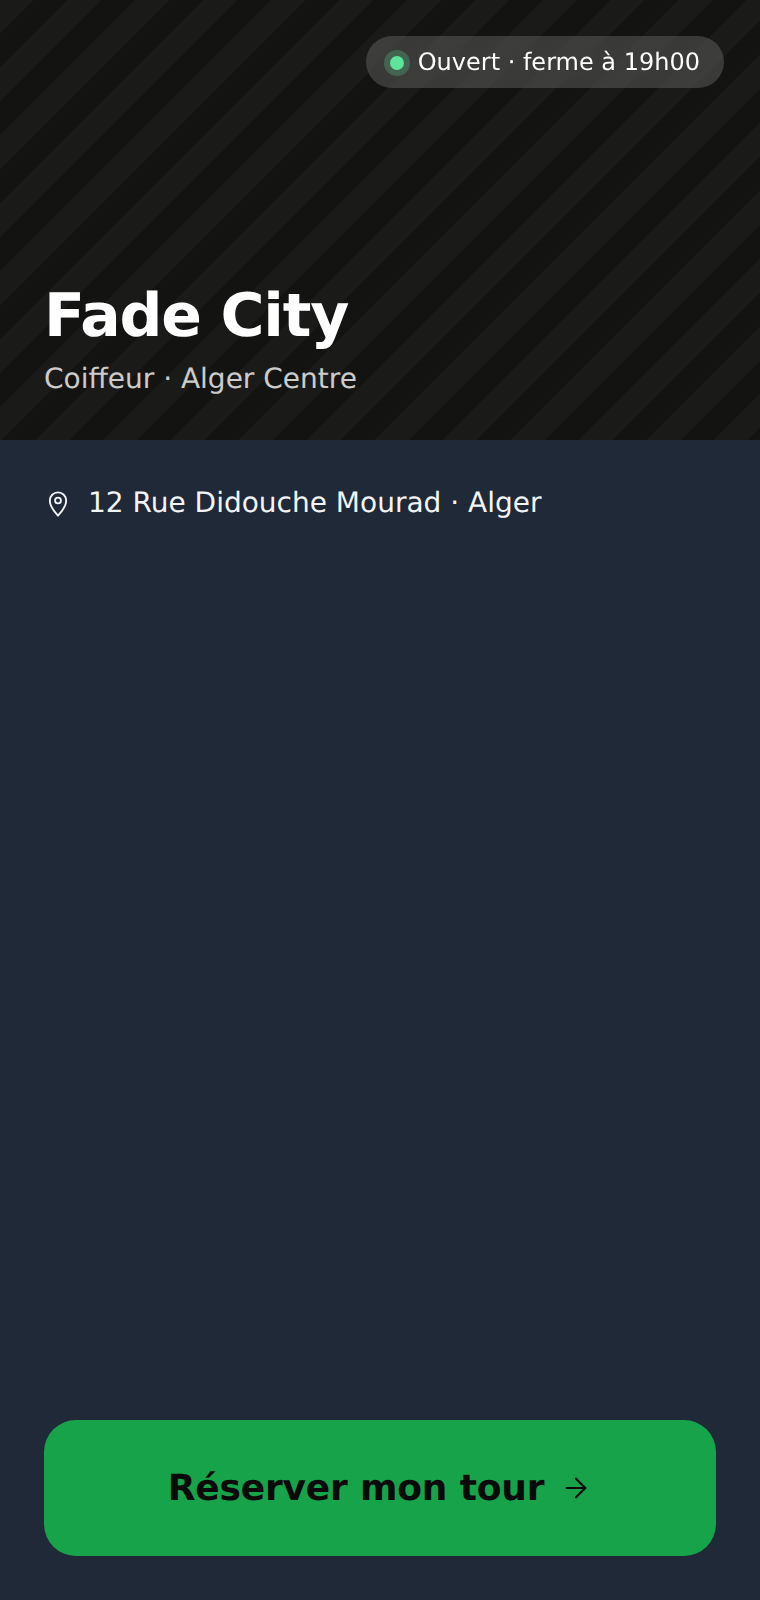
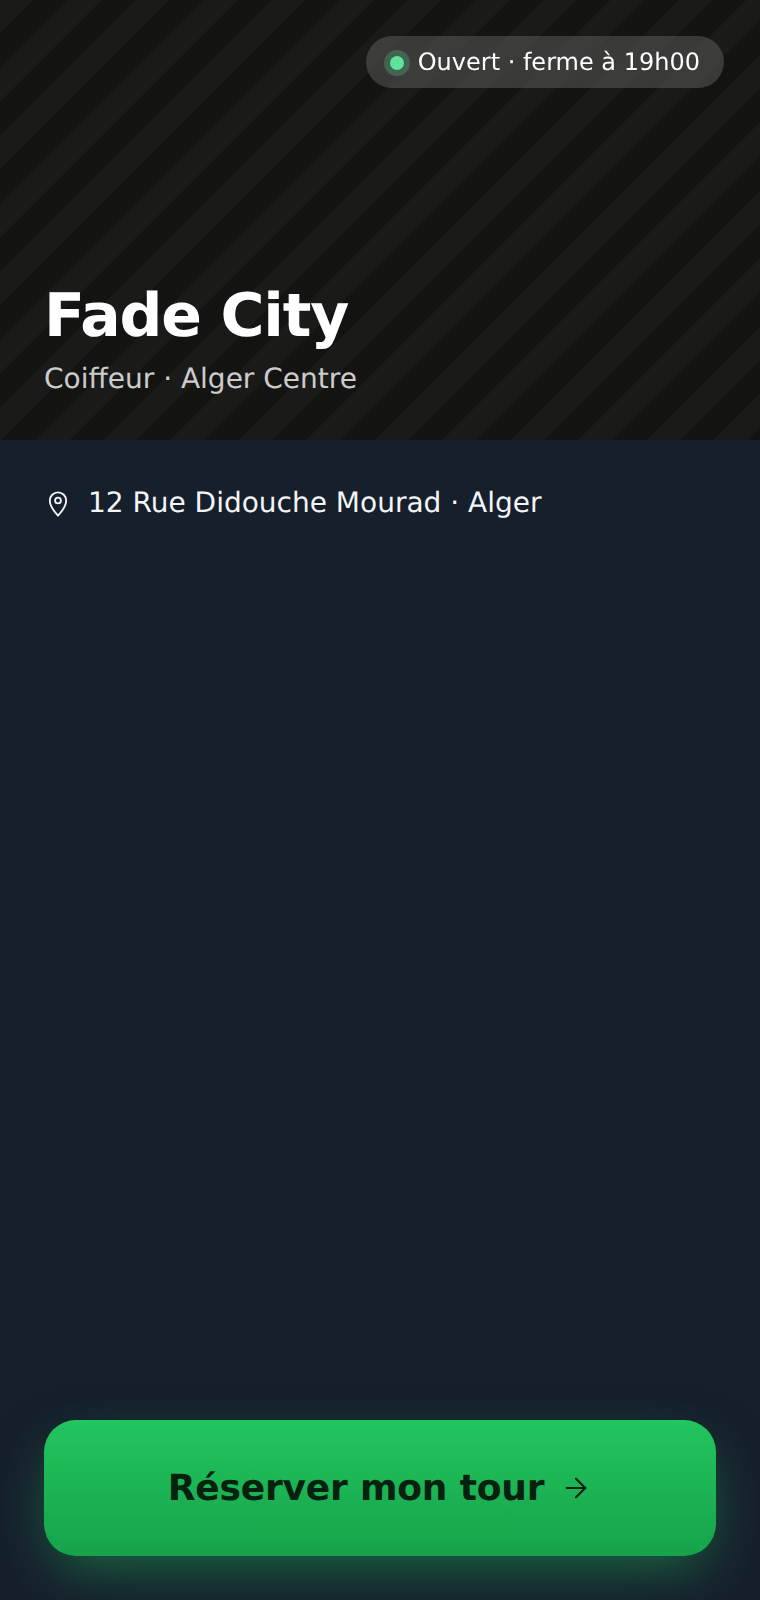
Visual refresh: deeper palette, green gradient + glow, elevation shadows
Applied at the token level so the app AND the site update together:
- Deeper page background (#0A0E17) with a soft top gradient glow.
- Brighter green + a gradient & glow on primary buttons (shared Button accent
  variant, and the Fast-mode primary) so the main action pops.
- Elevation shadows on cards, queue rows, and bottom sheets; sheets get a
  blurred backdrop. Subtle row hover-lift.
- Added shadow/glow design tokens (shadowSm/Md/Lg, glow, accentBright).
- Refreshed all README screenshots (app + site) with the new look.

Verified: full-app console clean.

https://claude.ai/code/session_01KXeZ2jfMa8Hu5hkugmRzRp

Changed region(s): [[0.0605, 0.875, 0.9382, 0.9375], [0.0908, 0.9688, 0.9079, 1.0]]

diff --git a/src/barber-fast.jsx b/src/barber-fast.jsx
@@ -154,7 +154,7 @@ function BarberFast({ lang = 'fr', setLang, density = 'busy', barberId = 'sofian
             <div key={current ? 'chair-' + current.client.id : 'chair-empty'} className="fast-chair"
                  style={{ animation: 'fast-chair-in 280ms cubic-bezier(0.2,0.8,0.2,1)' }}>
             {current ? (
-              <div style={{ background: TOKENS.surfaceAlt, borderRadius: 20, padding: 18, marginBottom: 16 }}>
+              <div style={{ background: TOKENS.surfaceAlt, borderRadius: 20, padding: 18, marginBottom: 16, boxShadow: TOKENS.shadowSm }}>
                 <div style={{ display: 'flex', alignItems: 'center', justifyContent: 'space-between', marginBottom: 4 }}>
                   <span style={{ fontSize: 12, fontWeight: 700, letterSpacing: '0.06em', textTransform: 'uppercase', color: TOKENS.accent }}>{L.inChair}</span>
                   <span style={{ display: 'inline-flex', alignItems: 'center', gap: 6, fontSize: 14, fontWeight: 600,
@@ -254,6 +254,8 @@ function BarberFast({ lang = 'fr', setLang, density = 'busy', barberId = 'sofian
         @keyframes fast-row-in { from { opacity: 0; transform: translateY(8px); } to { opacity: 1; transform: none; } }
         .fast-shell button { transition: transform 90ms ease; -webkit-tap-highlight-color: transparent; }
         .fast-shell button:active { transform: scale(0.965); }
+        .fast-shell .fast-row { transition: transform 130ms ease, box-shadow 130ms ease; }
+        .fast-shell .fast-row:hover { transform: translateY(-1px); box-shadow: 0 14px 28px -12px rgba(0,0,0,0.6); }
         @media (prefers-reduced-motion: reduce) {
           .fast-shell button:active { transform: none; }
           .fast-shell .fast-chair, .fast-shell .fast-row { animation: none !important; }
@@ -264,10 +266,14 @@ function BarberFast({ lang = 'fr', setLang, density = 'busy', barberId = 'sofian
 
   // styled-button helpers (kept inside for token access)
   function bigBtn(bg, fg, dashed, outline) {
+    const isAccent = bg === TOKENS.accent && !outline;
     return {
       width: '100%', minHeight: 64, borderRadius: 16, cursor: 'pointer', fontFamily: 'inherit',
-      background: outline ? 'transparent' : bg, color: fg,
-      border: outline ? `2px dashed ${TOKENS.border}` : (dashed ? `2px dashed ${TOKENS.accentDeep}` : 'none'),
+      background: outline ? 'transparent'
+        : (isAccent ? `linear-gradient(180deg, ${TOKENS.accentBright}, ${TOKENS.accent})` : bg),
+      color: fg,
+      border: outline ? `2px dashed ${TOKENS.border}` : 'none',
+      boxShadow: isAccent ? TOKENS.glow : 'none',
       display: 'inline-flex', alignItems: 'center', justifyContent: 'center', gap: 10,
       fontSize: 18, fontWeight: 800, letterSpacing: '-0.01em', marginTop: 16, padding: '0 18px',
     };
@@ -286,7 +292,7 @@ function BarberFast({ lang = 'fr', setLang, density = 'busy', barberId = 'sofian
 function FastRow({ c, i, lang, L, fmt, onStart, onNoShow, startSide }) {
   return (
     <div className="fast-row" style={{ background: TOKENS.surface, borderRadius: 16, padding: '12px 12px 12px 14px',
-                  display: 'flex', alignItems: 'center', gap: 12, minHeight: 72,
+                  display: 'flex', alignItems: 'center', gap: 12, minHeight: 72, boxShadow: TOKENS.shadowSm,
                   animation: 'fast-row-in 260ms ease both', animationDelay: `${Math.min(i, 6) * 35}ms` }}>
       <div style={{ width: 34, height: 34, borderRadius: '50%', flexShrink: 0,
                     background: TOKENS.surfaceAlt, color: TOKENS.muted, fontWeight: 700,
@@ -453,12 +459,14 @@ function FastToast({ msg }) {
 
 // shared sheet chrome
 function overlay() {
-  return { position: 'absolute', inset: 0, zIndex: 150, background: 'rgba(0,0,0,0.45)',
+  return { position: 'absolute', inset: 0, zIndex: 150, background: 'rgba(0,0,0,0.5)',
+           backdropFilter: 'blur(3px)', WebkitBackdropFilter: 'blur(3px)',
            display: 'flex', flexDirection: 'column', justifyContent: 'flex-end', animation: 'fast-fade 160ms ease-out' };
 }
 function sheet(dir) {
-  return { background: TOKENS.paper, borderRadius: '22px 22px 0 0', padding: '14px 18px 24px',
-           direction: dir, animation: 'fast-up 240ms cubic-bezier(0.2,0.8,0.2,1)', borderTop: `1px solid ${TOKENS.border}` };
+  return { background: TOKENS.surfaceAlt, borderRadius: '22px 22px 0 0', padding: '14px 18px 24px',
+           direction: dir, animation: 'fast-up 240ms cubic-bezier(0.2,0.8,0.2,1)',
+           borderTop: `1px solid ${TOKENS.border}`, boxShadow: TOKENS.shadowLg };
 }
 function grabber() {
   return { width: 40, height: 4, borderRadius: 999, background: TOKENS.border, margin: '0 auto 16px' };

diff --git a/src/data.jsx b/src/data.jsx
@@ -5,9 +5,9 @@ const TOKENS = {
   // Dark Minimal — slate background, calm whitespace, green primary
   ink:        '#F9FAFB',     // primary text
   inkSoft:    '#F3F4F6',
-  paper:      '#111827',     // page background
-  surface:    '#1F2937',     // cards
-  surfaceAlt: '#28323F',     // featured / inset
+  paper:      '#0A0E17',     // page background (deeper — more depth + contrast)
+  surface:    '#161F2C',     // cards (sit above the darker page)
+  surfaceAlt: '#1E2A39',     // featured / inset
   border:     '#2F3A47',
   borderSoft: '#252F3A',
   muted:      '#9CA3AF',     // secondary text
@@ -22,6 +22,12 @@ const TOKENS = {
   amberSoft:  '#3A2A0E',
   red:        '#EF4444',     // error
   redSoft:    '#3A1A1C',
+  accentBright: '#22C55E',   // brighter green for gradients + glow
+  // Elevation + glow — applied via boxShadow
+  shadowSm:   '0 6px 18px -8px rgba(0,0,0,0.55)',
+  shadowMd:   '0 18px 44px -16px rgba(0,0,0,0.60)',
+  shadowLg:   '0 30px 70px -22px rgba(0,0,0,0.66)',
+  glow:       '0 10px 28px -6px rgba(34,197,94,0.50)',
 };
 
 const I18N = {

diff --git a/src/ui.jsx b/src/ui.jsx
@@ -108,8 +108,8 @@ function Button({ children, onClick, variant = 'primary', size = 'lg', disabled,
     sm: { height: 36, padding: '0 14px', fontSize: 14, borderRadius: 10 },
   };
   const variants = {
-    primary:   { background: TOKENS.ink,     color: TOKENS.paper, fontWeight: 600 },
-    accent:    { background: TOKENS.accent,  color: '#0A0A0B',    fontWeight: 700 },
+    primary:   { background: TOKENS.ink,     color: TOKENS.paper, fontWeight: 600, boxShadow: TOKENS.shadowSm },
+    accent:    { background: `linear-gradient(180deg, ${TOKENS.accentBright}, ${TOKENS.accent})`, color: '#06210F', fontWeight: 700, boxShadow: TOKENS.glow },
     secondary: { background: TOKENS.surface, color: TOKENS.ink, border: `1px solid ${TOKENS.border}`, fontWeight: 500 },
     ghost:     { background: 'transparent',  color: TOKENS.ink, fontWeight: 500 },
     danger:    { background: TOKENS.redSoft, color: TOKENS.red, fontWeight: 500 },

diff --git a/index.html b/index.html
@@ -19,7 +19,8 @@
 <link href="https://fonts.googleapis.com/css2?family=Inter:wght@400;500;600;700;800&family=Cairo:wght@400;500;600;700;800&family=Geist+Mono:wght@400;500;600&family=IBM+Plex+Sans+Arabic:wght@400;500;600;700&display=swap" rel="stylesheet" />
 
 <style>
-  html, body { margin: 0; padding: 0; height: 100%; background: #111827; }
+  html, body { margin: 0; padding: 0; height: 100%; background: #0A0E17;
+               background-image: radial-gradient(1100px 760px at 50% -8%, #16233B 0%, rgba(10,14,23,0) 58%); }
   body { font-family: "Inter", -apple-system, BlinkMacSystemFont, system-ui, sans-serif;
          color: #F9FAFB; -webkit-font-smoothing: antialiased;
          text-rendering: optimizeLegibility;
